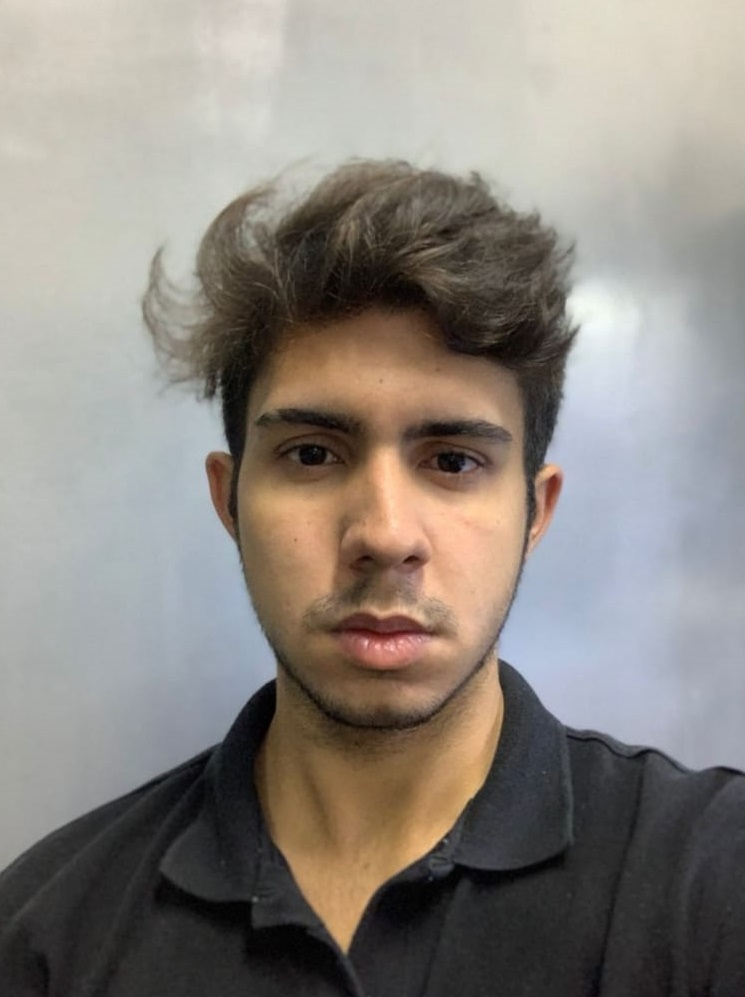
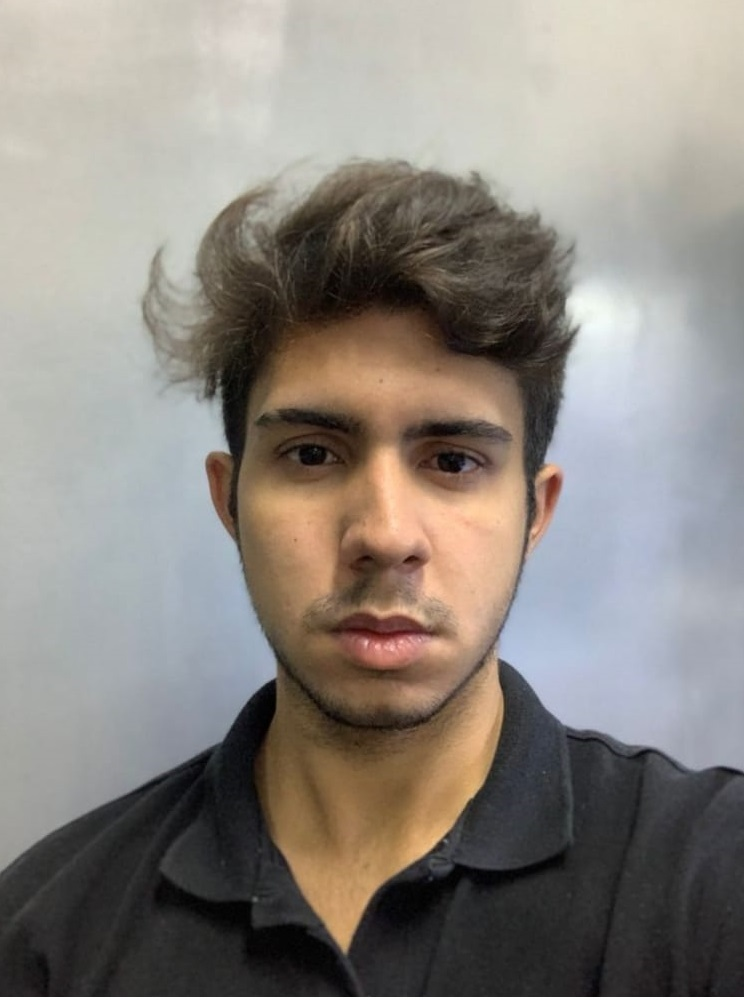
alteraçoes finais

diff --git a/index.html b/index.html
@@ -18,19 +18,21 @@
     <header >
     <nav class="menu">
             <div class="opcaomenu">
-                <a href="" class="nomeabas"><i class="fa-solid fa-mug-hot"></i></i>Sobre Mim</a>
+                <a href="#sobree" class="nomeabas"><i class="fa-solid fa-mug-hot"></i></i>Sobre Mim</a>
             </div>
             <div class="opcaomenu">
-                <a href="" class="nomeabas"><i class="fa-solid fa-diagram-project"></i>Projetos</a>
+                <a href="#ferramen" class="nomeabas"><i class="fa-solid fa-gears"></i>Ferramentas</a>
             </div>
             <div class="opcaomenu">
+                <a href="#proj" class="nomeabas"><i class="fa-solid fa-diagram-project"></i>Projetos</a>
+            </div>
+           <!--- <div class="opcaomenu">
                 <a href="" class="nomeabas"><i class="fa-solid fa-award"></i>Certificados</a>
-            </div>
+            </div> 
+        -->
+            
             <div class="opcaomenu">
-                <a href="" class="nomeabas"><i class="fa-solid fa-gears"></i>Ferramentas</a>
-            </div>
-            <div class="opcaomenu">
-                <a href="" class="nomeabas"><i class="fa-solid fa-comments"></i>contato</a>
+                <a href="#roda" class="nomeabas"><i class="fa-solid fa-comments"></i>Contato</a>
             </div>
     </nav>
  <!---------------------------------------------------------------------->
@@ -38,7 +40,7 @@
     <div class="nomefoto">
             <h1>João Ribeiro</h1>
             <h3 class="cargo"><i class="fa-solid fa-terminal"></i>Software Developer Back-end</h3>
-            <img class="perfil" src="fotos/IMG-20220201-WA0074 (3).jpg" alt="">
+            <img class="perfil" src="fotos/IMG-20230205-WA0017.jpg" alt="">
     </div>
 
     <div class="frases">
@@ -79,7 +81,7 @@
     <!---------------------------------------------------------------------->
 
     <main>
-        <section class="SobremimHabilidades">
+        <section id="sobree" class="SobremimHabilidades">
             <article class="sobremim">
                
                 <div  class="sobremimdiv">
@@ -138,7 +140,7 @@
 
         <!---------------------------------------------------------------------->
         <!---------------------------------------------------------------------->
-        <section class="ferramentas">
+        <section id="ferramen" class="ferramentas">
             <h2 class="tituloPro">Minha Caixa de Ferramentas</h2>
             <P>Aqui apresento brevemente as minhas principais Hard Skills (que mais utilizo ou que estou aprendendo)</P>      
             <article class="ff">
@@ -150,16 +152,9 @@
                      <img class="imgF" src="https://cdn.jsdelivr.net/gh/devicons/devicon/icons/c/c-original.svg" />
                      <img class="imgF" src="https://cdn.jsdelivr.net/gh/devicons/devicon/icons/cplusplus/cplusplus-original.svg" />--->
                      
-                     
-<<<<<<< HEAD
                      <h3>Conhecimentos e Aplicações<br></h3>
-                     <p><br><Strong>Java:</Strong> OOP(Object-Oriented Programming) - SGBD - Collections - Servlet - JSP - JPA - Intellij - Eclipse 
-                        <Strong>C#: </Strong>OOP(Object-Oriented Programming) - .NET CORE - ASP.NET - Visual Studio - VS CODE - </p>
-=======
-                     <h3>Conhecimentos e aplicaçoes<br></h3>
                      <p><br><Strong>Java:</Strong> OOP(Object-Oriented Programming) - SGBD - Collections - Servlet - JSP - JPA - Intellij - Eclipse<br> 
                         <Strong>C#: </Strong>OOP(Object-Oriented Programming) - Visual Studio - VS CODE </p>
->>>>>>> b05956c407bd1794cefd38ad7108896e0af3d2ba
                  
                  </div>
                  <div>
@@ -170,13 +165,8 @@
                      
                      <img class="imgF" src="https://cdn.jsdelivr.net/gh/devicons/devicon/icons/postgresql/postgresql-original-wordmark.svg" />
                      <img class="imgF" src="https://cdn.jsdelivr.net/gh/devicons/devicon/icons/mysql/mysql-original-wordmark.svg" />
-<<<<<<< HEAD
                      <h3>Conhecimentos e Aplicações<br></h3>
-                     <p><br>Spring Boot - MVC - Protocolo HTTP, DNS, TCP/IP - JUnit</p>
-=======
-                     <h3>Conhecimentos e aplicaçoes<br></h3>
                      <p><br>Spring Boot - MVC - JSP - Protocolo HTTP, DNS, TCP/IP - JUnit <br>- .NET CORE - ASP.NET - MySQL - PostgreSQL - Selenium</p>
->>>>>>> b05956c407bd1794cefd38ad7108896e0af3d2ba
                  
                  </div>
                  <div>
@@ -186,15 +176,8 @@
                      <img class="imgF" src="https://cdn.jsdelivr.net/gh/devicons/devicon/icons/apache/apache-original-wordmark.svg" />
                      <img class="imgFp" src="fotos/noun-kanban-board-4759118.svg" />
                      <img class="imgFp" src="fotos/noun-agile-development-4759133.svg" />
-
-<<<<<<< HEAD
                      <h3>Conhecimentos e Aplicações<br></h3>
-                     <p><br>Agile Culture: <strong>Scrum end Kanban</strong> - GIT & GitHub - </p>
-=======
-                     <h3>Conhecimentos e aplicaçoes<br></h3>
                      <p><br>Agile Culture: <strong>Scrum end Kanban</strong> - GIT & GitHub - Apache Maven - CI/CD </p>
->>>>>>> b05956c407bd1794cefd38ad7108896e0af3d2ba
-                 
                  </div>
                 </div>
             </article>
@@ -209,7 +192,7 @@
 
         <!---------------------------------------------------------------------->
         <!---------------------------------------------------------------------->
-        <section class="projetos">
+        <section id="proj" class="projetos">
             <h2 class="tituloPro"> Projetos </h2>
             <article class="caixaProjeto">
                 
@@ -252,7 +235,7 @@
     <!---------------------------------------------------------------------->
     <!---------------------------------------------------------------------->
 
-    <footer>
+    <footer id="roda">
         <div class="redesocial">
                     <nav >
                     <a class="contato" href="https://instagram.com/v_ribeiro_v?utm_source=qr&igshid=NGExMmI2YTkyZg%3D%3D"><i class="fa-brands fa-instagram"></i><br>Instagram</a>

diff --git a/header.css b/header.css
@@ -54,8 +54,8 @@ h1{
     font-size: 40px;
 }
 .perfil{
-    width: 350px;
-    height: 350px;
+    width: 300px;
+    height: 300px;
     margin-top: 20%;
     border-radius: 60%;
     border: 5px solid #DECBB0;
